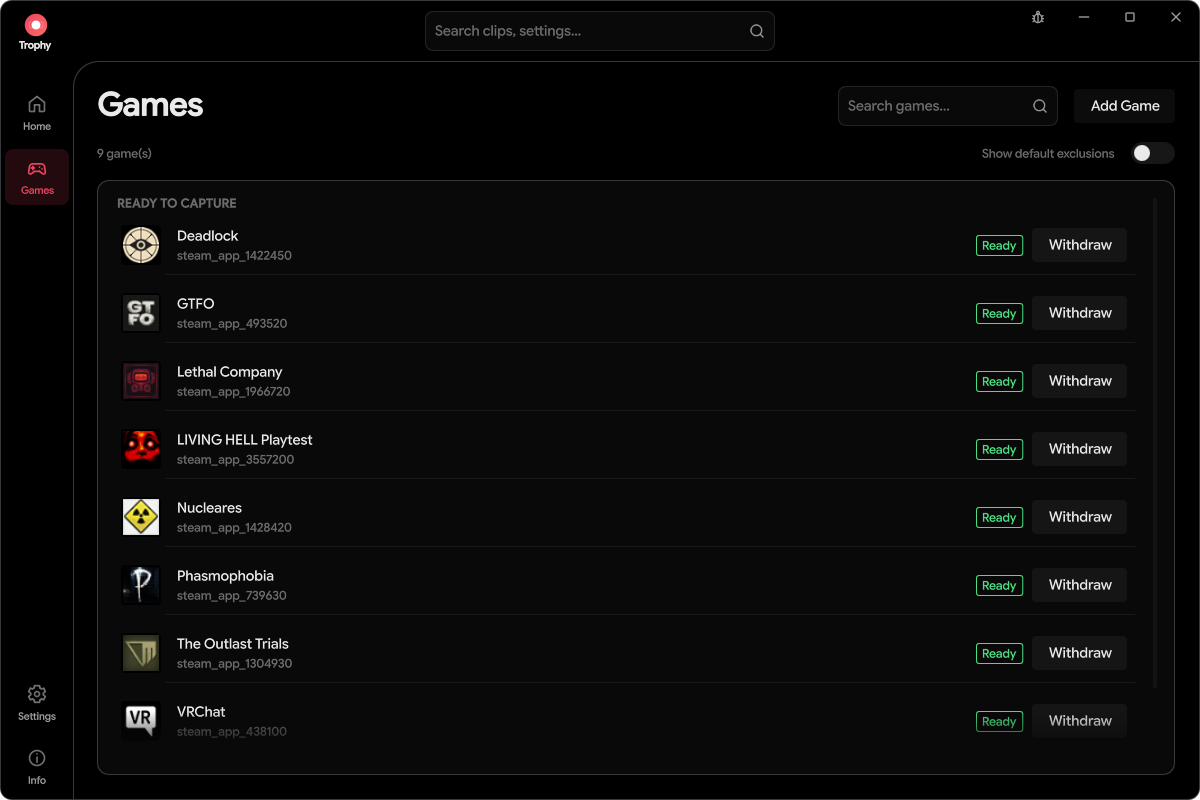
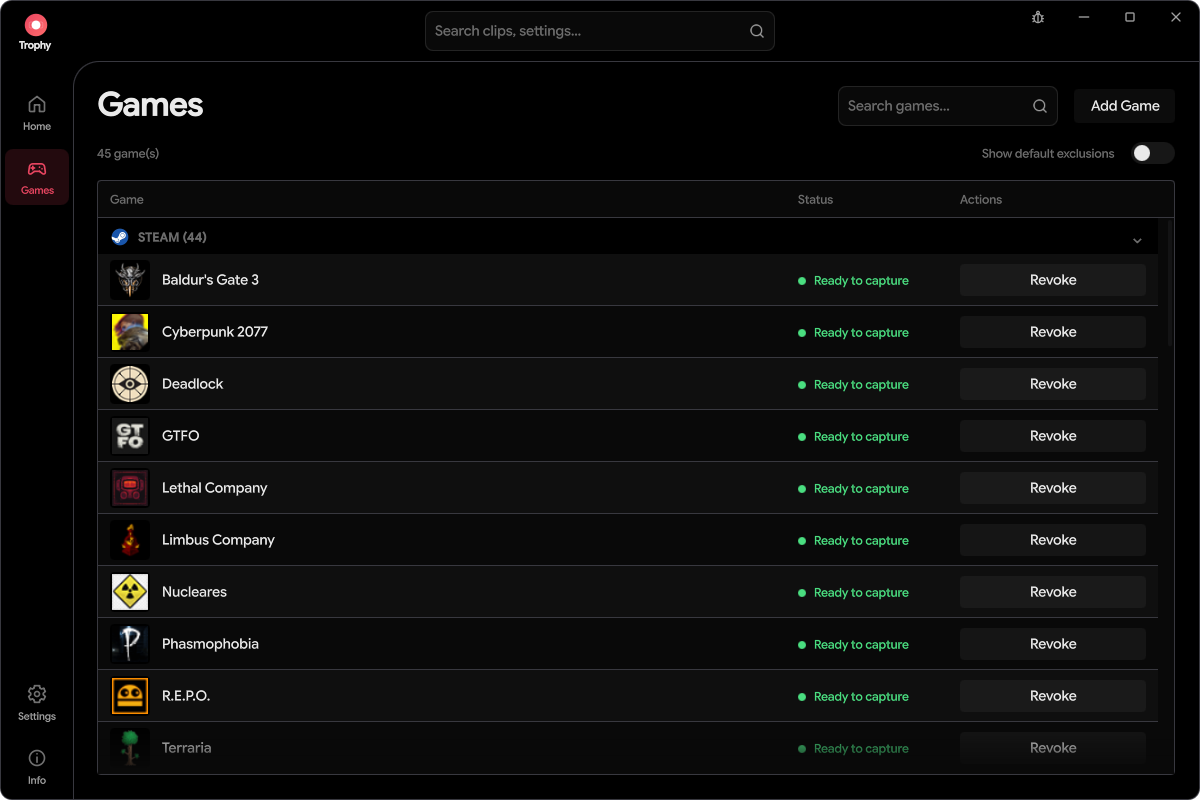
Refresh release documentation and Games screenshots

diff --git a/website/index.html b/website/index.html
@@ -128,8 +128,8 @@
 
     <section class="section screen-section" aria-labelledby="control-title">
       <div class="wrap control-grid">
-        <div class="control-copy"><p class="eyebrow">SET IT UP. GET BACK TO PLAYING.</p><h2 id="control-title">Your games.<br>Your permission.</h2><p>Trophy detects installed games using local metadata from Steam, Heroic, Legendary, Nile, and Lutris. Missing a game? Add it manually in <strong>Games → Add Game</strong>.</p><p>Capture goes through your desktop’s screen-sharing portal. Authorize your games, then choose automatic full-session recording or keep a replay buffer ready for the moments you want to save.</p><p>Manage capture approvals in one place and withdraw them when you want. Trophy cannot capture your screen without your desktop portal’s permission.</p><a class="text-link" href="./docs/user-guide.html">Explore the user guide <span aria-hidden="true">↗</span></a></div>
-        <figure class="detail-screen"><a class="screenshot-link" data-screenshot="Games · Capture approvals" href="assets/games-list.png" aria-label="Enlarge the Trophy Games page"><picture><source type="image/webp" srcset="assets/games-list-480.webp 480w, assets/games-list-800.webp 800w, assets/games-list-1200.webp 1200w" sizes="(max-width: 650px) calc(100vw - 36px), (max-width: 1224px) 60vw, 657px"><img src="assets/games-list.png" width="1200" height="800" alt="The Trophy Games page, with approved games marked Ready to capture and individual Withdraw controls." loading="lazy" decoding="async"></picture></a><figcaption>Your capture approvals, in plain sight.</figcaption></figure>
+        <div class="control-copy"><p class="eyebrow">SET IT UP. GET BACK TO PLAYING.</p><h2 id="control-title">Your games.<br>Your permission.</h2><p>Trophy discovers installed games using local metadata from Steam, Heroic, Legendary, Nile, Lutris, and Faugus, and groups them by launcher. Missing a game? Add it manually in <strong>Games → Add Game</strong>.</p><p>Finding a game does not authorize recording. Capture goes through your desktop’s screen-sharing portal. Authorize your games, then choose automatic full-session recording or keep a replay buffer ready for the moments you want to save.</p><p>Use <strong>Prompt / Deny</strong> to control automatic capture and <strong>Revoke</strong> to forget Trophy’s saved approval. Revoke does not change desktop-wide portal permissions. Trophy cannot capture your screen without your desktop portal’s permission.</p><a class="text-link" href="./docs/user-guide.html">Explore the user guide <span aria-hidden="true">↗</span></a></div>
+        <figure class="detail-screen"><a class="screenshot-link" data-screenshot="Games · Capture approvals" href="assets/games-list.png" aria-label="Enlarge the Trophy Games page"><picture><source type="image/webp" srcset="assets/games-list-480.webp 480w, assets/games-list-800.webp 800w, assets/games-list-1200.webp 1200w" sizes="(max-width: 650px) calc(100vw - 36px), (max-width: 1224px) 60vw, 657px"><img src="assets/games-list.png" width="1200" height="800" alt="The Trophy Games page, with a collapsible Steam group, Ready to capture statuses, and individual Revoke controls." loading="lazy" decoding="async"></picture></a><figcaption>Your games grouped by launcher, with capture approvals in plain sight.</figcaption></figure>
       </div>
       <div class="wrap automation-grid">
         <article><span class="small-label">READY WHEN YOU ARE</span><h3>Background replay.</h3><p>Set your replay length and save recent gameplay when the buffer is ready—without keeping an entire session.</p></article>
@@ -175,7 +175,7 @@
       <div class="faq-list">
         <details><summary>Is Trophy really free?</summary><p>Yes. Trophy is 100% free and open-source software licensed under the GNU GPL v3. No subscription or account is required. You can browse the source, report issues, or contribute on <a href="https://github.com/stevenjwheeler/Trophy">GitHub</a>.</p></details>
         <details><summary>Does Trophy upload my recordings?</summary><p>No. Your recordings, clips, and exported copies stay on your computer. Sharing creates a local file for you to upload or send yourself; Trophy does not upload your gameplay.</p></details>
-        <details><summary>Which game launchers does Trophy detect?</summary><p>Trophy uses local installation metadata from Steam, Heroic (Epic, GOG, and Amazon), Legendary (Epic), Nile (Amazon), and Lutris to recognize running games. Some launcher configurations do not provide usable executable metadata; you can add those games manually in <strong>Games → Add Game</strong>. Detection is independent of the compositor, and capture still requires desktop portal approval.</p></details>
+        <details><summary>Which game launchers does Trophy detect?</summary><p>Trophy uses local installation metadata from Steam, Heroic (Epic, GOG, and Amazon), Legendary (Epic), Nile (Amazon), Lutris, and Faugus to recognize running games. Some launcher configurations do not provide usable executable metadata; you can add those games manually in <strong>Games → Add Game</strong>. View discovered games and configure launcher locations in <strong>Settings → Game Detection &amp; Libraries</strong>. Detection is independent of the compositor, and capture still requires desktop portal approval.</p></details>
         <details><summary>Does Trophy work with Steam and Proton games?</summary><p>Trophy can capture native Wayland and XWayland games, including games running through Proton, in a Wayland desktop session. Automatic detection uses Linux processes and local launcher installation metadata. Games outside supported libraries can also be added manually. See the <a href="./docs/getting-started.html#game-detection">game-detection guide</a> and the anti-cheat cautions below.</p></details>
         <details><summary>Do I need a particular compositor?</summary><p>No. Trophy is designed to work across Wayland compositors, without Trophy-specific desktop scripts or extensions. Capture requires PipeWire and a compatible ScreenCast portal backend; shortcut support and silent restoration depend on your desktop's portal implementation. Not every compositor, backend, and GPU combination has been live-tested.</p></details>
         <details><summary>Will it work with anti-cheat games?</summary><p>Anti-cheat compatibility is not guaranteed. Trophy uses unprivileged process metadata and desktop portals, with no injected Vulkan/OpenGL detection layers or game-process hooks. That is not an anti-cheat certification: follow each game's rules and capture policy. Read the <a href="./docs/getting-started.html#game-detection">game-detection guidance</a> for details.</p></details>

diff --git a/README.md b/README.md
@@ -23,18 +23,18 @@ Trophy is a game recorder and clipping app built for Linux on Wayland. Keep a fu
 - **Make a clip, not a project.** Use the built-in player, timeline bookmarks, and clip editor to find and snip the parts worth keeping.
 - **Share without changing the original.** Export H.264/AAC MP4 copies, choose the audio to include, and queue multiple exports in the background.
 - **Keep your library manageable.** Browse animated previews, search and filter captures, protect favorites from automatic cleanup, and manage your library with ease.
-- **Keep your private stuff private.** Trophy only records the games you approve. It only sees screens you share through your desktop's screen-sharing portal, and you can withdraw approval from the Games page at any time.
+- **Keep your private stuff private.** Capture uses the screens you share through your desktop's screen-sharing portal. Use **Revoke** on the Games page to forget Trophy's saved approval; it does not change desktop-wide portal permissions.
 - **Make it yours.** Customization options let you change the look, feel and colors of Trophy to match your style.
 
 ## Take a look around
 
 <p align="center">
-  <a href="docs/images/games-list.png"><img src="docs/images/games-list.png" alt="Trophy Games page listing approved games with a Ready status and a Withdraw action for each" width="48%" /></a>
+  <a href="docs/images/games-list.png"><img src="docs/images/games-list.png" alt="Trophy Games page with a collapsible Steam group, Ready to capture statuses, and a Revoke action for each approved game" width="48%" /></a>
   &nbsp;
   <a href="docs/images/settings.png"><img src="docs/images/settings.png" alt="Trophy Settings page listing sections for customization, video recording, background clips, audio recording, storage management, notifications, and game detection" width="48%" /></a>
 </p>
 
-<p align="center"><sub>Approve each detected game from the notification before Trophy can capture it, and withdraw that permission in your Games list.
+<p align="center"><sub>Finding a game does not authorize capture: approve it through the desktop portal, then manage Trophy's saved approval with Revoke in the Games list.
 Tune video, audio, clips, storage, appearance and more in Settings.</sub></p>
 
 <p align="center">

diff --git a/docs/getting-started.md b/docs/getting-started.md
@@ -168,9 +168,11 @@ waits for its game payload before automatic capture. Use Games to block
 applications, define standalone games, or select among concurrent instances.
 
 Supported local metadata sources include **Steam**, **Heroic** (Epic, GOG and
-Amazon), **Legendary** (Epic), **Nile** (Amazon) and **Lutris**. Games without a
+Amazon), **Legendary** (Epic), **Nile** (Amazon), **Lutris** and **Faugus**. Games without a
 usable metadata match can be added manually through **Games → Add Game**; see
 [Adding a standalone game](#adding-a-standalone-game).
+View discovered libraries and configure their locations in
+**Settings → Game Detection & Libraries**.
 
 Automatic recording and DVR wait for game audio during startup, with a bounded
 fallback for silent games; see [Launcher and window handoffs](user-guide.md#launcher-and-window-handoffs).
@@ -190,7 +192,7 @@ to sign out and back in to clear the old launch environment. See
 ### Adding a standalone game
 
 Start the game, open **Games → Add Game**, select its process and choose
-**Watch** or **Block**. The default **Likely applications** view reduces
+**Watch** or **Deny**. The default **Likely applications** view reduces
 background-process noise; enable **Show all processes** if your game is not
 listed. These suggestions are not a list of verified visible windows.
 Rows show the executable/payload path and PID, including

diff --git a/docs/user-guide.md b/docs/user-guide.md
@@ -64,7 +64,7 @@ location changes request an immediate refresh. These checks never run overlappin
 scans. The setup wizard keeps the previous game count and launcher icons visible
 while refreshing in the background, updating them only when results change.
 
-Automatic discovery checks standard XDG locations and common Steam, Heroic and
+Automatic discovery checks standard XDG locations and common Steam, Heroic,
 Lutris and Faugus Flatpak locations. Use **Add location…** for a custom launcher metadata
 directory, not a game installation folder. The section explains which directory
 each launcher expects. You can add multiple locations, remove them, turn off

diff --git a/docs/game-detection.md b/docs/game-detection.md
@@ -130,7 +130,7 @@ one catalogue:
 Steam discovery reads local libraryfolders and app
 manifests, including extra drives and common Flatpak locations. Heroic and Lutris
 also check their standard Flatpak metadata directories, as does Faugus.
-**Settings → Game Libraries**
+**Settings → Game Detection & Libraries → Game Libraries**
 shows every supported launcher, including **Not detected** entries, discovered
 metadata locations, read errors and usable-game counts. Each launcher's dropdown
 lists its usable installed games. **Rescan now** requests a fresh background scan.
